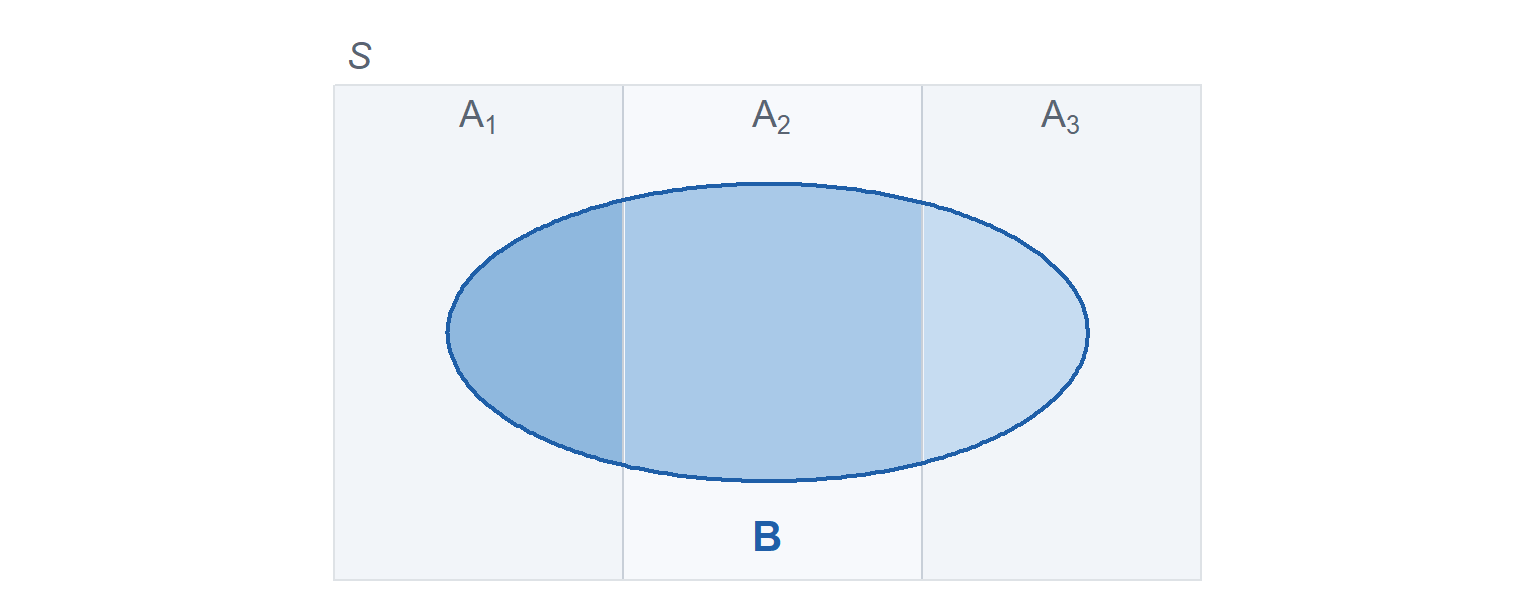
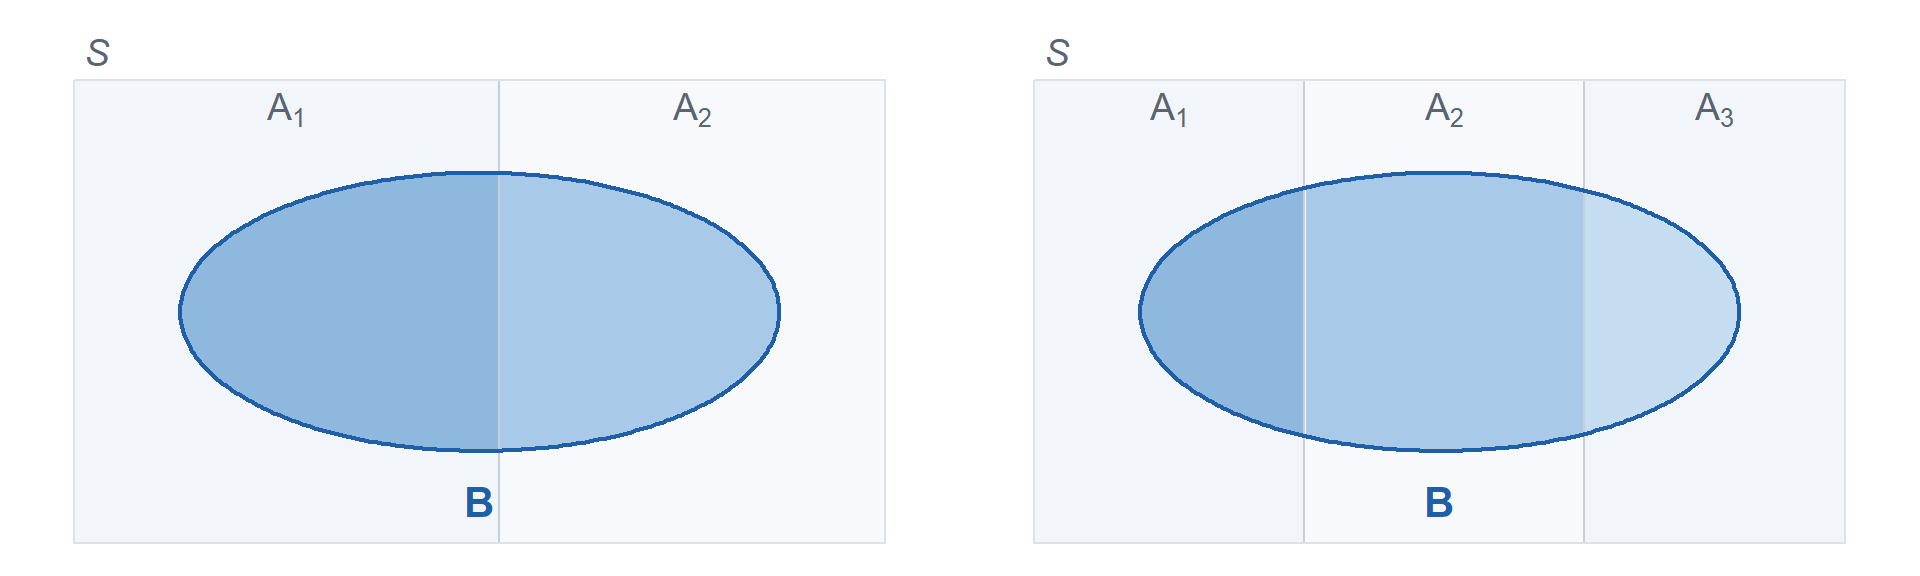
Sync westpoint folder from courses repo

diff --git a/public/westpoint/MA206-AY27-1/lesson-6.html b/public/westpoint/MA206-AY27-1/lesson-6.html
@@ -569,7 +569,8 @@ window.Quarto = {
 </section>
 <section id="conditional-probability" class="level2">
 <h2 class="anchored" data-anchor-id="conditional-probability">Conditional Probability</h2>
-<!-- TODO: define P(A|B) as renormalizing to B, with a 2x2 table or Venn picture -->
+<p><span class="math display">\[P(A \mid B)\]</span></p>
+<p><span class="math display">\[P(\;\underbrace{A}_{\substack{\text{the event we want}\\ \text{a probability for}}}\;\underbrace{\mid}_{\substack{\text{"given that"}\\ \text{(not division)}}}\;\underbrace{B}_{\substack{\text{what we already}\\ \text{know happened}}}\;)\]</span></p>
 <div class="callout callout-style-default callout-important callout-titled" title="Definition: Conditional Probability">
 <div class="callout-header d-flex align-content-center">
 <div class="callout-icon-container">
@@ -660,7 +661,7 @@ window.Quarto = {
 </section>
 <section id="the-multiplication-rule" class="level2">
 <h2 class="anchored" data-anchor-id="the-multiplication-rule">The Multiplication Rule</h2>
-<p>Nothing new here. Start with the definition and multiply both sides by <span class="math inline">\(P(B)\)</span>:</p>
+<p>Start with the definition and multiply both sides by <span class="math inline">\(P(B)\)</span>:</p>
 <p><span class="math display">\[P(A \mid B) = \frac{P(A \cap B)}{P(B)} \;\;\Longrightarrow\;\; P(A \mid B)\,P(B) = P(A \cap B)\]</span></p>
 <div class="callout callout-style-default callout-important callout-titled" title="Multiplication Rule">
 <div class="callout-header d-flex align-content-center">
@@ -708,7 +709,6 @@ window.Quarto = {
 </section>
 <section id="the-law-of-total-probability" class="level2">
 <h2 class="anchored" data-anchor-id="the-law-of-total-probability">The Law of Total Probability</h2>
-<!-- TODO: partition picture, then a worked example -->
 <div class="callout callout-style-default callout-important callout-titled" title="Law of Total Probability">
 <div class="callout-header d-flex align-content-center">
 <div class="callout-icon-container">
@@ -726,12 +726,12 @@ window.Quarto = {
 <div class="cell-output-display">
 <div>
 <figure class="figure">
-<p><img src="lesson-6_files/figure-html/venn-total-probability-1.png" class="img-fluid figure-img" style="width:92.0%" alt="A rectangle labeled S split into three vertical slabs labeled A1, A2 and A3. An ellipse labeled B lies across all three, and the part of B inside each slab is shaded a different tone, showing B cut into three pieces."></p>
+<p><img src="lesson-6_files/figure-html/venn-total-probability-1.png" class="img-fluid figure-img" style="width:100.0%" alt="Two rectangles labeled S side by side. On the left S is split into two vertical slabs A1 and A2; on the right into three slabs A1, A2 and A3. In each, an ellipse labeled B lies across all the slabs and the part of B inside each slab is shaded a different tone, showing B cut into two pieces on the left and three on the right."></p>
 </figure>
 </div>
 </div>
 </div>
-<p><span class="math inline">\(B\)</span> is chopped into one piece per slab, and the pieces cannot overlap, so their probabilities add.</p>
+<p><span class="math inline">\(B\)</span> is chopped into one piece per slab, and the pieces cannot overlap, so their probabilities add. Two slabs or three, the picture is the same: any <span class="math inline">\(k\)</span> works as long as the <span class="math inline">\(A_i\)</span> are mutually exclusive and cover <span class="math inline">\(S\)</span>.</p>
 <section id="the-same-thing-as-a-tree" class="level3">
 <h3 class="anchored" data-anchor-id="the-same-thing-as-a-tree">The Same Thing as a Tree</h3>
 <p>Multiply along each path, then add the paths that land in <span class="math inline">\(B\)</span>.</p>
